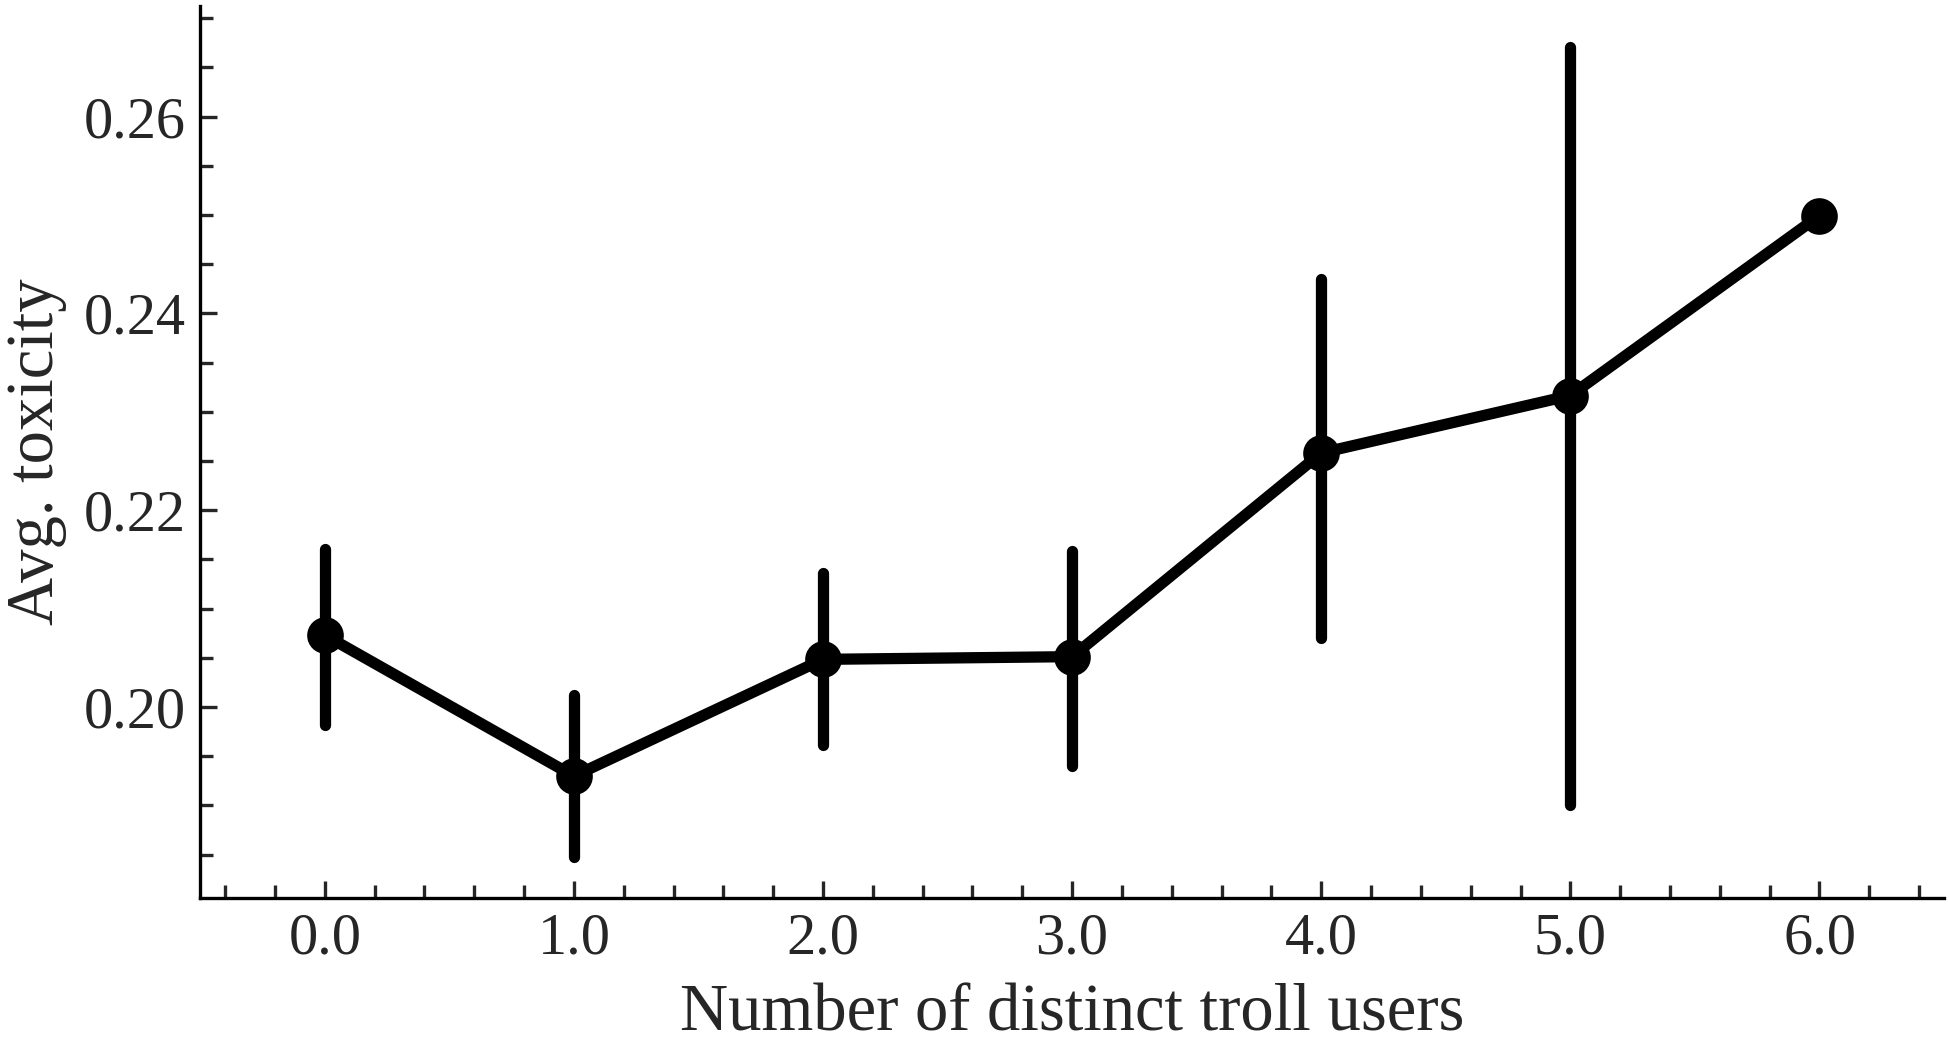
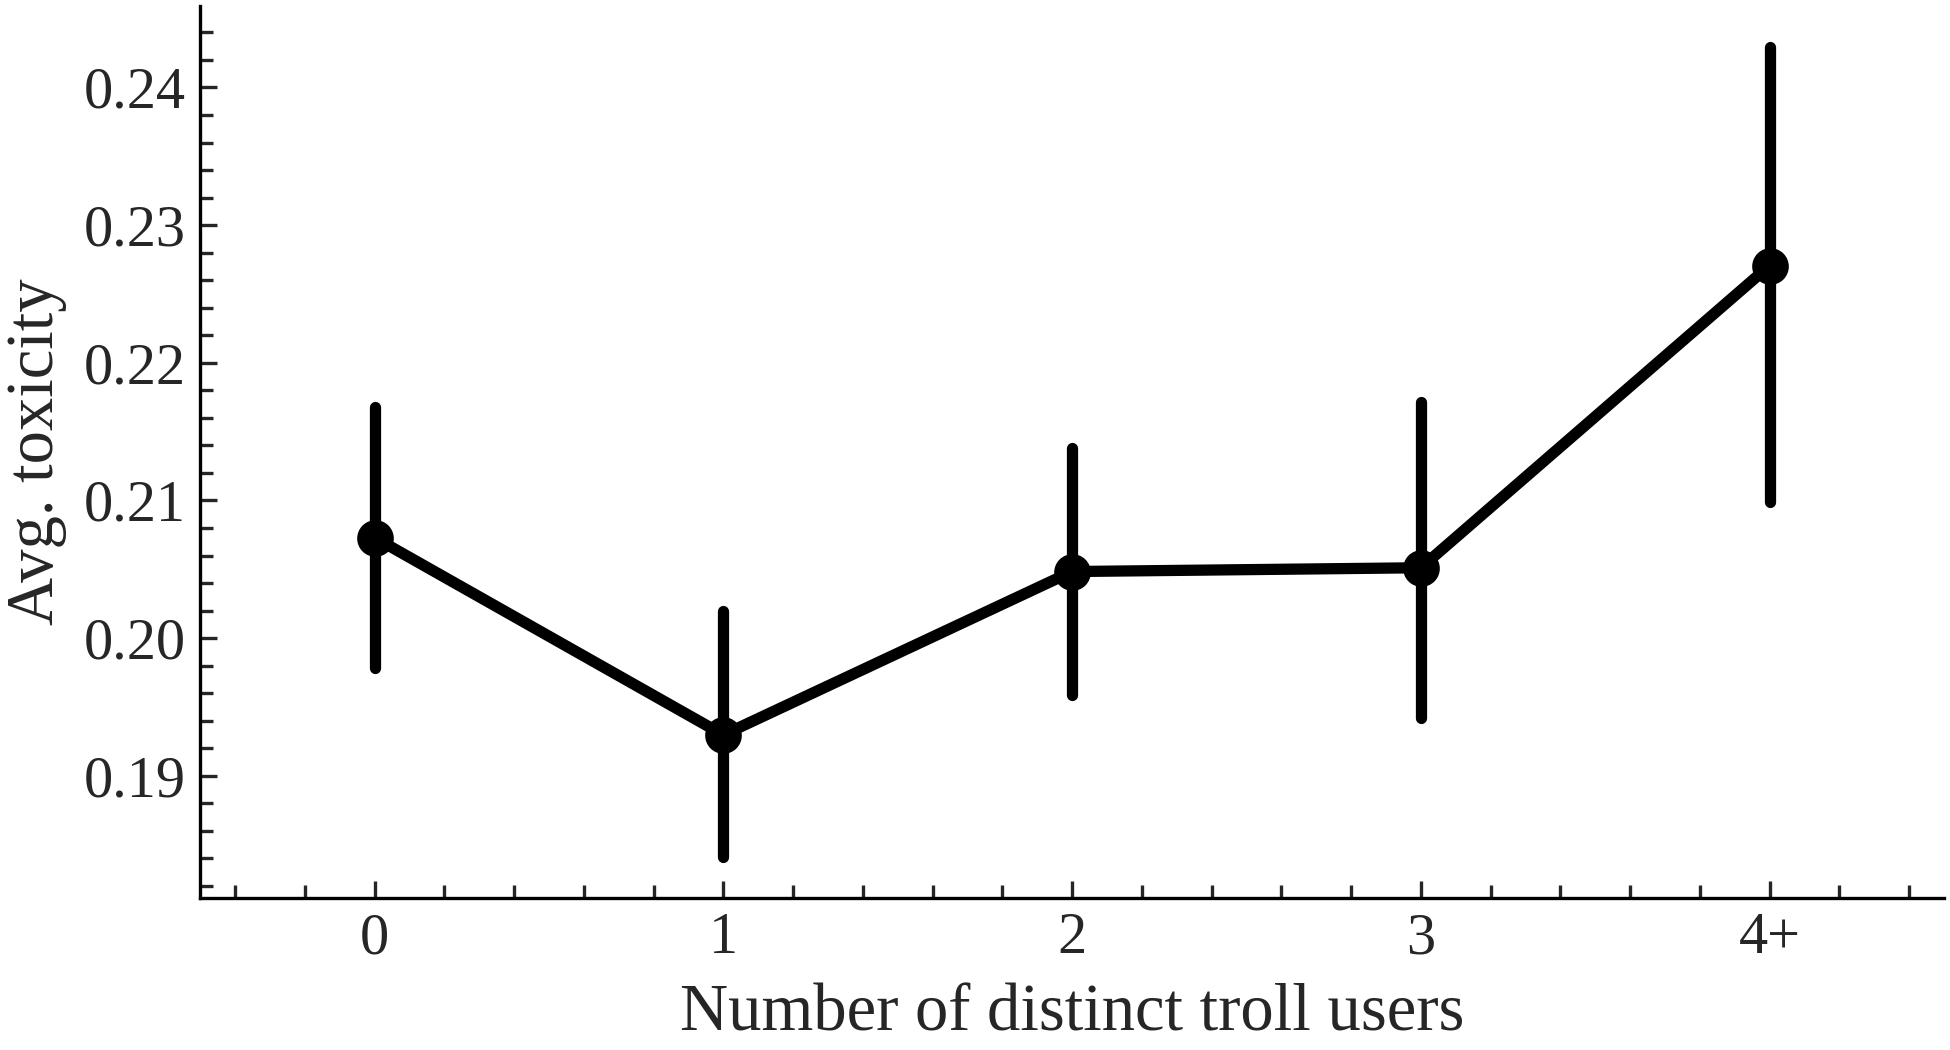
go back to a one-model setup

diff --git a/src/run_experiment.py b/src/run_experiment.py
@@ -18,10 +18,8 @@ TROLL_CHANCE = 0.3
 
 def main(
     config_file_path: Path,
-    user_model_url: str,
-    user_model_name: str,
-    mod_model_url: str,
-    mod_model_name: str,
+    model_url: str,
+    model_name: str,
     turn_manager_type: str,
     num_experiments: int,
     mod_active: bool,
@@ -37,7 +35,7 @@ def main(
     json_output_dir = output_dir
 
     run_logger_name = (
-        f"run.{user_model_name}.{turn_manager_type}"
+        f"run.{model_name}.{turn_manager_type}"
         f".mod{'On' if mod_active else 'Off'}"
         f".trolls{'On' if trolls_active else 'Off'}"
     )
@@ -66,19 +64,14 @@ def main(
 
     try:
         user_model = syndisco.model.TransformersModel(
-            model_path=user_model_url,
-            name=user_model_name,
+            model_path=model_url,
+            name=model_name,
             remove_string_list=[],
             max_out_tokens=yaml_data["discussion_model"]["max_tokens"],
         )
 
         if mod_active:
-            mod_model = syndisco.model.TransformersModel(
-                model_path=mod_model_url,
-                name=mod_model_name,
-                remove_string_list=[],
-                max_out_tokens=yaml_data["discussion_model"]["max_tokens"],
-            )
+            mod_model = user_model
         else:
             mod_model = None
 
@@ -326,7 +319,7 @@ if __name__ == "__main__":
         help="Path to the YAML configuration file",
     )
     parser.add_argument(
-        "--user-model-url",
+        "--model-url",
         required=True,
         help=(
             "HuggingFace url for the desired participant (non-moderator) "
@@ -334,22 +327,9 @@ if __name__ == "__main__":
         ),
     )
     parser.add_argument(
-        "--user-model-pseudo",
+        "--model-pseudo",
         required=True,
         help="Short-hand name for the participant (non-moderator) model",
-    )
-    parser.add_argument(
-        "--mod-model-url",
-        required=True,
-        help=(
-            "HuggingFace url for the desired moderator "
-            "model. No GGUF support."
-        ),
-    )
-    parser.add_argument(
-        "--mod-model-pseudo",
-        required=True,
-        help="Short-hand name for the moderator model",
     )
     parser.add_argument(
         "--mod-strategy-file",
@@ -382,10 +362,8 @@ if __name__ == "__main__":
 
     main(
         config_file_path=Path(args.config_file),
-        user_model_url=args.user_model_url,
-        user_model_name=args.user_model_pseudo,
-        mod_model_url=args.mod_model_url,
-        mod_model_name=args.mod_model_pseudo,
+        model_url=args.model_url,
+        model_name=args.model_pseudo,
         mod_active=args.mod_active,
         turn_manager_type=args.turn_manager,
         mod_strategy_path=Path(args.mod_strategy_file),

diff --git a/src/eval_toxicity.py b/src/eval_toxicity.py
@@ -7,7 +7,6 @@ import numpy as np
 import seaborn as sns
 import statsmodels.formula.api as smf
 
-import tasks.constants
 import tasks.graphs
 
 
@@ -23,6 +22,8 @@ def main(main_output_dir: Path, toxicity_ratings_dir: Path, graph_dir: Path):
         "Moderator",
         np.where(df.is_troll, "Troll", "Non-troll user"),
     )
+
+    toxicity_overall(df[~df.is_moderator], graph_dir)
     toxicity_by_dimension(df, graph_dir, "role")
     toxicity_by_dimension(df, graph_dir, "strategy")
     toxicity_regression(df[~df.is_moderator], graph_dir=graph_dir)
@@ -45,7 +46,7 @@ def get_toxicity_df(
     toxicity_df.toxicity = pd.to_numeric(toxicity_df.toxicity)
 
     full_df = df.merge(right=toxicity_df, how="inner", on="message_id")
-    full_df["is_troll"] = full_df.prompt.str.contains("troll")
+    full_df["is_troll"] = full_df.prompt.str.contains("trolling")
 
     full_df = full_df.loc[
         (full_df.model != "hardcoded"),
@@ -62,6 +63,12 @@ def get_toxicity_df(
     ]
 
     return full_df
+
+
+def toxicity_overall(df: pd.DataFrame, graph_dir: Path) -> None:
+    sns.histplot(df.toxicity)
+    tasks.graphs.save_plot(graph_dir / "overall_toxicity.png")
+    plt.close()
 
 
 def toxicity_by_dimension(
@@ -134,8 +141,13 @@ def toxicity_vs_troll_count(df: pd.DataFrame, graph_dir: Path) -> None:
         pd.concat([avg_toxicity, troll_counts], axis=1).fillna(0).reset_index()
     )
     plot_df["troll_bin"] = plot_df["n_distinct_trolls"].clip(upper=4)
-    plot_df["troll_bin"] = plot_df["troll_bin"].astype(str)
-    plot_df.loc[plot_df["troll_bin"] == "4", "troll_bin"] = "4+"
+    plot_df["troll_bin"] = (
+        plot_df["troll_bin"]
+        .astype(int)
+        .astype(str)
+        .apply(lambda x: x if x != "4" else "4+")
+    )
+    print(plot_df.troll_bin.unique())
 
     plot_toxicity_vs_trolls(plot_df, graph_dir)
 
@@ -145,7 +157,8 @@ def plot_toxicity_vs_trolls(plot_df: pd.DataFrame, graph_dir: Path) -> None:
 
     ax = sns.pointplot(
         data=plot_df,
-        x="n_distinct_trolls",
+        x="troll_bin",
+        order=["0", "1", "2", "3", "4+"],
         y="avg_non_troll_toxicity",
         estimator=np.mean,
         errorbar=("ci", 95),
